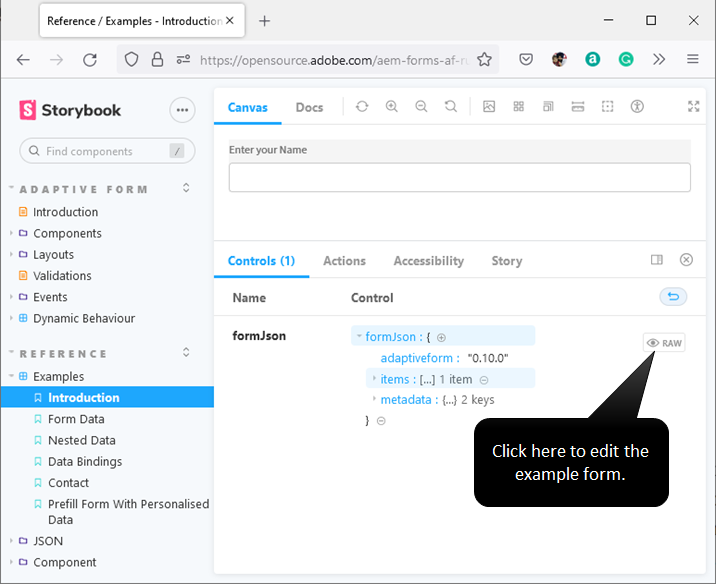
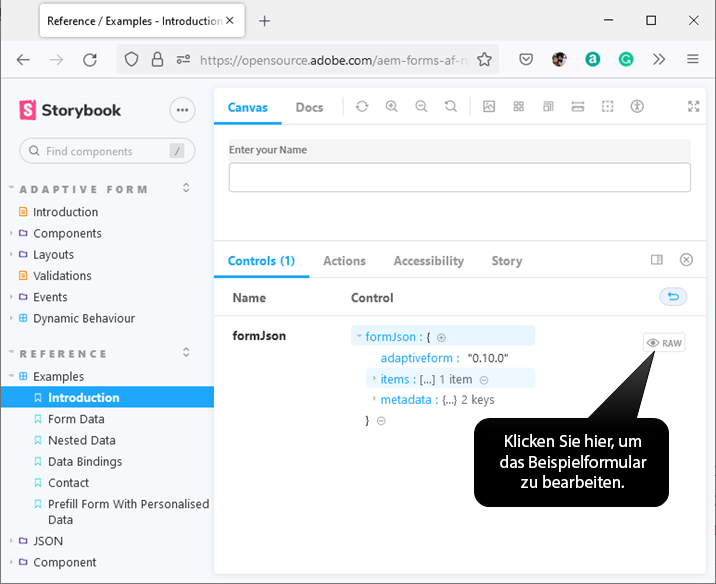
Updated by task 'AUTO_HANDOFF_PRIORITY_1693237965035'  Changes for core/source commit https://git.corp.adobe.com/AdobeDocs/experience-manager-headless-adaptive-forms.en/commit/47ac7d03c8c4fa18ac3bdcef04352fdd1cad1b16

Changed region(s): [[0.676, 0.7397, 0.9218, 0.8322]]

diff --git a/help/release-notes.md b/help/release-notes.md
@@ -1,25 +1,25 @@
 ---
-title: Übersicht über AEM Headless-adaptive Formulare
-description: Übersicht über AEM adaptiven Formulare ohne Kopfzeilenfunktion.
+title: Adaptive Headless-Formulare von AEM – Übersicht
+description: Übersicht über adaptive Headless-Formulare von AEM.
 hide: true
 exl-id: cd7c7972-376c-489f-a684-f479d92c37e7
 source-git-commit: 0127f8ddede38083f0932b0e8d7efdd0dd77c3a6
-workflow-type: tm+mt
+workflow-type: ht
 source-wordcount: '510'
-ht-degree: 3%
+ht-degree: 100%
 
 ---
 
 
 # Versionshinweise
 
-Willkommen bei der frühzeitigen Version von adaptiven Formularen ohne Experience Manager Headless. Lesen Sie weiter, um Ressourcen und Anweisungen zu erhalten, um zu beginnen und die Version optimal zu nutzen.
+Willkommen bei der Early-Adopter-Version von adaptiven Headless-Formularen von Experience Manager. Lesen Sie weiter, um Ressourcen und Anweisungen für den Einstieg zu erhalten und das Beste aus der Version zu machen.
 
-Sie können adaptive Adobe Experience Manager Headless-Formulare verwenden, um Formularanwendungen mithilfe von Frontend-UI-Frameworks wie React, Angular und mehr zu erstellen und das Adaptive Forms Web SDK für Funktionen wie Statusverwaltung, Validierung und Integrationen mit verschiedenen anderen Touchpoints zu verwenden.
+Sie können adaptive Headless-Formulare von Adobe Experience Manager verwenden, um Formularanwendungen mithilfe von Frontend-UI-Frameworks wie React, Angular und mehr zu erstellen, und das Adaptive Forms Web SDK für Funktionen wie Statusverwaltung, Validierung und Integrationen mit verschiedenen anderen Touchpoints verwenden.
 
-Die frühe Adopter-Version bietet Ihnen Zugriff auf die Verwendung von Headless-adaptiven Formularen in einer [lokale Entwicklungsumgebung](setup-development-environment.md). Sie können die lokale Entwicklungsumgebung verwenden, um Headless-adaptive Formulare zu erstellen und zu testen.
+Die Early-Adopter-Version bietet Ihnen Zugriff auf die Verwendung von adaptiven Headless-Formularen in einer [lokalen Entwicklungsumgebung](setup-development-environment.md). Sie können die lokale Entwicklungsumgebung verwenden, um adaptive Headless-Formulare zu erstellen und zu testen.
 
-Adaptive Headless-Formulare werden laufend verbessert. Besuchen Sie diese Seite regelmäßig, um über die neuesten Entwicklungen auf dem Laufenden zu bleiben. Auf dieser Seite finden Sie Informationen zu frühzeitigem Zugriff, aktuellen Versionen, neuen Funktionen, Verbesserungen, Fehlerbehebungen, veralteten Funktionen, speziellen Anweisungen und künftigen Plänen für Änderungen.
+Adaptive Headless-Formulare werden laufend verbessert. Besuchen Sie diese Seite regelmäßig, um über die neuesten Entwicklungen auf dem Laufenden zu bleiben. Auf dieser Seite finden Sie Informationen zu frühzeitiger Verfügbarkeit, neuesten Versionen, neuen Funktionen, Verbesserungen, Fehlerbehebungen, veralteten Funktionen, speziellen Anweisungen und zukünftigen Änderungsplänen.
 
 <!-- 
 
@@ -40,45 +40,45 @@ Adaptive Headless-Formulare werden laufend verbessert. Besuchen Sie diese Seite 
 
 <!-- ### React Renderer component -->
 
-## In der frühen Adoptionsversion verfügbare Artefakte
+## Artefakte sind in der Early-Adopter-Version verfügbar
 
-In der Journey, um Ihnen adaptive Adobe Experience Manager Headless-Formulare bereitzustellen, sind die folgenden Artefakte in der frühen Advertising-Version verfügbar:
+Im Rahmen unseres Bestrebens, Ihnen adaptive Headless-Formulare von Adobe Experience Manager zur Verfügung zu stellen, sind die folgenden Artefakte in der Early-Adopter-Version verfügbar:
 
-### AEM FORMS AS A CLOUD SERVICE SDK
+### AEM Forms as a Cloud Service SDK
 
-AEM Forms as a Cloud Service SDK zum Erstellen, Speichern und Abrufen von Headless-adaptiven Formularen. Es hilft auch bei der Bereitstellung von Diensten zum Vorausfüllen, serverseitigen Validieren von Regeln und Senden für adaptive Headless-Formulare.
+AEM Forms as a Cloud Service SDK hilft Ihnen beim Erstellen, Speichern und Abrufen von adaptiven Headless-Formularen. Es hilft auch bei der Bereitstellung von Vorbefüllung, Server-seitiger Regelvalidierung und Übermittlungsdiensten für adaptive Headless-Formulare.
 
 ### Forms Web SDK
 
-Das Forms Web SDK bietet die APIs zum Validieren von Einschränkungen, die auf verschiedene Formularfelder angewendet werden, und zum Verbinden der JSON-Formularstruktur mit dem UI-Framework. Es bietet außerdem React Renderer-&#x200B; für Headless-adaptive Formulare, um ein Headless-adaptives Formular in Ihre Anwendung zu integrieren. Die folgenden Komponenten des Web SDK sind verfügbar:
+Forms Web SDK stellt die APIs zur Validierung von Einschränkungen bereit, die auf verschiedene Felder eines Formulars angewendet werden, sowie Hooks, um die JSON-Struktur des Formulars mit dem UI-Framework zu verbinden. Es bietet außerdem React Renderer für adaptive Headless-Formulare, um die Integration eines adaptiven Headless-Formulars in Ihre Anwendung zu unterstützen. Die folgenden Komponenten des Web SDK sind verfügbar:
 
-* **[@aemforms/af-response-components](https://www.npmjs.com/package/@aemforms/af-react-components)**
-* **[@aemforms/af-response-renderer](https://www.npmjs.com/package/@aemforms/af-react-renderer)**
+* **[@aemforms/af-react-components](https://www.npmjs.com/package/@aemforms/af-react-components)**
+* **[@aemforms/af-react-renderer](https://www.npmjs.com/package/@aemforms/af-react-renderer)**
 * **[@aemforms/af-core](https://www.npmjs.com/package/@aemforms/af-core)**
 
 <!-- npm i --save @aemforms/af-react-components @aemforms/af-react-renderer @aemforms/af-core -->
 
 #### Storybook
 
-[Storybook](https://opensource.adobe.com/aem-forms-af-runtime/storybook/) bietet einen Überblick über die verschiedenen Komponenten von Headless adaptiven Formularen. Sie enthält außerdem eine Liste aller unterstützten Komponenten, deren zugehörige Eigenschaften und Einschränkungen.
+[Storybook](https://opensource.adobe.com/aem-forms-af-runtime/storybook/) bietet einen Überblick über verschiedene Komponenten von adaptiven Headless-Formularen. Außerdem wird eine Liste aller unterstützten Komponenten einschließlich ihrer Eigenschaften und Einschränkungen bereitgestellt.
 
-### Forms-Kernkomponente
+### Kernkomponenten von Formularen
 
 <!-- Forms components are the structural elements that constitute the content of the form being authored. These components provide various form fields and ability to customize those fields. -->
 
-Kernkomponenten sind eine Reihe standardisierter WCM-Komponenten (Web Content Management), mit denen Sie die Entwicklungszeit verkürzen und die Wartungskosten Ihrer Formulare reduzieren können. Die Forms-Container-Komponente ist eine Kernkomponente. Dies hilft Ihnen beim Einbetten und Rendern einer JSON-Struktur des Headless-adaptiven Formulars im adaptiven Forms-Editor des as a Cloud Service Forms SDK.
+Kernkomponenten sind eine Reihe standardisierter Web Content Management(WCM)-Komponenten, um die Entwicklungszeit zu verkürzen und die Wartungskosten Ihrer Formulare zu senken. Die Komponente „Formular-Container“ ist eine Kernkomponente. Sie hilft Ihnen, eine JSON-Struktur eines adaptiven Headless-Formulars in den Editor für adaptive Formulare des Forms as a Cloud Service SDK einzubetten und zu rendern.
 
-### Adaptive Forms V2-Spezifikationen
+### Spezifikationen für „Adaptive Formulare V2“
 
-Die Spezifikation für Headless-adaptive Formulare bietet detaillierte Informationen zu allen Komponenten, Begrenzungen und Methoden, die zum Definieren von Headless-adaptiven Formularen verfügbar sind. Die Spezifikation ist verfügbar unter [PDF](/help/assets/Headless-Adaptive-Form-Specification.pdf) Format.
+Die Spezifikation für adaptive Headless-Formulare bietet detaillierte Informationen zu allen Komponenten, Einschränkungen und Methoden, die zum Definieren adaptiver Headless-Formulare verfügbar sind. Die Spezifikation ist im [PDF](/help/assets/Headless-Adaptive-Form-Specification.pdf)-Format verfügbar.
 
 ### HTTP- und JS-API
 
-[HTTP-APIs](https://opensource.adobe.com/aem-forms-af-runtime/api/) ermöglichen es Ihnen, den Sendestatus von Headless-Formularen aufzulisten, abzurufen, zu validieren, zu senden und zu verfolgen. [JS-APIs](https://opensource.adobe.com/aem-forms-af-runtime/jsdocs/) hilft Ihnen bei der Verwendung von Headless-adaptiven Formularen mit einem beliebigen JavaScript-basierten UI-Framework.
+[HTTP-APIs](https://opensource.adobe.com/aem-forms-af-runtime/api/) ermöglichen Ihnen das Auflisten, Abrufen, Validieren, Senden und Verfolgen des Übermittlungsstatus von Headless-Formularen. [JS-APIs](https://opensource.adobe.com/aem-forms-af-runtime/jsdocs/) helfen Ihnen, adaptive Headless-Formulare mit jedem JavaScript-basierten UI-Framework zu verwenden.
 
 ### Visual Studio Code-Erweiterung
 
-[Visual Studio Code-Erweiterung](visual-studio-code-extension-for-headless-adaptive-forms.md) um eine gültige JSON-Struktur zu erstellen. Es bietet IntelliSense-Unterstützung und -Validierung für die JSON-Struktur von Formularen sowie allgemeine Funktionen wie das Hinzufügen, Löschen oder Umbenennen von Komponenten einer JSON-Struktur.
+Die [Visual Studio Code-Erweiterung](visual-studio-code-extension-for-headless-adaptive-forms.md) hilft beim Erstellen einer gültigen JSON-Struktur. Sie bietet IntelliSense-Unterstützung und -Validierung für die JSON-Struktur von Formularen sowie allgemeine Funktionen wie das Hinzufügen, Löschen oder Umbenennen von Komponenten einer JSON-Struktur.
 
 <!-- ## What's next
 

diff --git a/help/faq.md b/help/faq.md
@@ -6,21 +6,21 @@ feature: Adaptive Forms
 topic: Headless
 role: Admin, Developer
 level: Beginner, Intermediate
-keywords: Headless, adaptives Formular, FAQ
+keywords: headless, adaptives Formular, FAQ
 hide: false
 exl-id: 5bfc307d-96a3-4007-b65f-32176ecdb710
 source-git-commit: 47ac7d03c8c4fa18ac3bdcef04352fdd1cad1b16
-workflow-type: tm+mt
+workflow-type: ht
 source-wordcount: '429'
-ht-degree: 2%
+ht-degree: 100%
 
 ---
 
 # Häufig gestellte Fragen (FAQ) {#headless-adaptive-forms-faq}
 
-## Sollte ich React.js kennen, um Headless-adaptive Formulare zu verwenden?
+## Sollte ich wissen, dass React.js Headless-adaptive Formulare verwendet?
 
-Sie können jedes Framework, jede Bibliothek oder jede Sprache verwenden, um Headless-adaptive Formulare wiederzugeben und unsere REST-APIs zum Überprüfen und Senden der Formulare zu verwenden. Die AF-Core-Bibliothek, die OOTB bereitgestellt wird, ist Framework-unabhängig. React-Render- und React-component-Bibliotheken, die OOTB zur Verfügung gestellt werden, sind für Sie bequem. Sie können eigene Komponenten entwickeln und sind nicht auf deren Verwendung beschränkt.
+Sie können jedes Framework, jede Bibliothek oder jede Sprache verwenden, um adaptive Headless-Formulare zu rendern, und unsere REST-APIs zum Validieren und Senden der Formulare verwenden. Die AF-Core-Bibliothek ist, sofern OOTB bereitgestellt wird, Framework-unabhängig. Die bereitgestellten OOTB-Bibliotheken React-Render und React-Komponenten verbessern die Benutzerfreundlichkeit. Sie können Ihre eigenen Komponenten entwickeln und sind nicht auf obige beschränkt.
 
 <!-- 
 ## Did Adobe release a new AEM Archetype for Headless adaptive forms?
@@ -29,41 +29,41 @@ You can use Archetype 37 with flag `includeFormsheadless` or later flag to creat
 
 -->
 
-## Benötige ich eine as a Cloud Service Forms-Sandbox zur Verwendung von Headless-adaptiven Formularen?
+## Benötige ich eine Forms as a Cloud Service-Sandbox, um adaptive Headless-Formulare zu verwenden?
 
-Sie können die Starter-App verwenden, um Ihre Headless-adaptiven Formulare zu entwickeln und zu gestalten. Sie benötigen Forms, das as a Cloud Service ist, Headless-adaptive Formulare zusammen mit Backend-Formularfunktionen zu hosten und bereitzustellen.
+Mit der Starter-App können Sie mit der Entwicklung und Gestaltung Ihrer adaptiven Headless-Formulare beginnen. Sie benötigen Forms as a Cloud Service, um adaptive Headless-Formulare zusammen mit Backend-Formularfunktionen zu hosten und bereitzustellen.
 
 <!-- ## Do I need an archetype project to develop Headless adaptive forms?
 
 You can use the starter app to start developing and styling your Headless adaptive forms. Later on, you can use the 
 archetype project to deploy the finished Headless adaptive forms and corresponding custom code, created using starter app, to Forms as a Cloud Service environment. The Forms as a Cloud Service environment helps you test and productionize the forms. -->
 
-## Wo erhalte ich eine Vorschau für ein adaptives Headless-Formular? {#storybook-example}
+## Wo kann ich eine Vorschau eines adaptiven Headless-Formulars erhalten? {#storybook-example}
 
-Sie können die Starter-App verwenden, um ein benutzerdefiniertes Headless-adaptives Formular zu rendern und in der Vorschau anzuzeigen. Sie können auch eine [Storybook](https://opensource.adobe.com/aem-forms-af-runtime/storybook/?path=/story/reference-examples--introduction) Beispiel für die Vorschau eines adaptiven Formulars ohne Kopfzeilenmodus.
+Mit der Starter-App können Sie ein benutzerdefiniertes adaptives Headless-Formular rendern und in der Vorschau anzeigen. Sie können auch ein Beispiel für ein [Storybook](https://opensource.adobe.com/aem-forms-af-runtime/storybook/?path=/story/reference-examples--introduction) zur Vorschau eines adaptiven Headless-Formulars bearbeiten.
 
 ![](/help/assets/storybook-example.png)
 
-## Ist es möglich, Headless-adaptive Formulare mit benutzerdefinierten Frameworks zu verwenden?
+## Ist es möglich, adaptive Headless-Formulate mit benutzerdefinierten Frameworks zu verwenden?
 
-Headless-adaptive Formulare basieren auf [Standardspezifikation](/help/assets/Headless-Adaptive-Form-Specification.pdf). Sie können die Spezifikation erweitern, um sie zum Erstellen benutzerdefinierter Komponenten zu verwenden. Beispielsweise Komponenten für die Chakra-Benutzeroberfläche, Vue.js und mehr.
+Adaptive Headless-Formulare basieren auf einer [Standardspezifikation](/help/assets/Headless-Adaptive-Form-Specification.pdf). Sie können die Spezifikation erweitern, um sie zum Erstellen benutzerdefinierter Komponenten zu verwenden. Zum Beispiel Komponenten für Chakra UI, Vue.js und mehr.
 
-## Unterstützen Headless adaptive Formulare kaskadierende Felder?
+## Unterstützen adaptive Headless-Formulare kaskadierende Felder?
 
-In kaskadierenden Feldern hängt der Inhalt des zweiten Felds vom im ersten Feld ausgewählten Inhalt ab. Die [Storybook](https://opensource.adobe.com/aem-forms-af-runtime/storybook/?path=/story/adaptive-form-dynamic-behavior—options&amp;args=formJson.items[0].fieldType:drop-down;formJson.items[0].minimum:!undefined;formJson.items[0].maximum:!undefined;formJson.items[0].label.value:Choose+number+of+options;formJson.items[0].enum[0]:1;formJSp son.items[0].enum[1]:2;formJson.items[0].enum[2]:3;formJson.items[1].fieldType:drop-down) bietet ein Beispiel für kaskadierende Felder.
+In kaskadierenden Feldern hängt der Inhalt des zweiten Felds vom im ersten Feld ausgewählten Inhalt ab. Das [Storybook](https://opensource.adobe.com/aem-forms-af-runtime/storybook/?path=/story/adaptive-form-dynamic-behaviour--options&amp;args=formJson.items[0].fieldType:drop-down;formJson.items[0].minimum:!undefined;formJson.items[0].maximum:!undefined;formJson.items[0].label.value:Choose+number+of+options;formJson.items[0].enum[0]:1;formJson.items[0].enum[1]:2;formJson.items[0].enum[2]:3;formJson.items[1].fieldType:drop-down) bietet ein Beispiel für kaskadierende Felder.
 
-## Lassen adaptive Formulare mit Headless das Vorausfüllen von Formularen mit personalisierten Daten zu?
+## Ermöglichen adaptive Headless-Formulare das Vorausfüllen von Formularen mit personalisierten Daten?
 
-Headless adaptive Formulare ermöglichen das Vorausfüllen von Formularen mit personalisierten Daten. Die [Storybook](https://opensource.adobe.com/aem-forms-af-runtime/storybook/?path=/story/reference-examples--prefill-form-with-personalised-data) bietet ein Beispiel dafür, wie Sie ein adaptives Headless-Formular vorab ausfüllen können.
+Adaptive Headless-Formulare ermöglichen das Vorausfüllen von Formularen mit personalisierten Daten. Das [Storybook](https://opensource.adobe.com/aem-forms-af-runtime/storybook/?path=/story/reference-examples--prefill-form-with-personalised-data) bietet ein Beispiel dafür, wie ein adaptives Headless-Formular vorab ausgefüllt werden kann.
 
 <!-- >
 ## Can I use existing Adaptive Forms editor to create a Headless adaptive form?
 
 At this moment, you use the Adaptive Form Editor to specify the JSON structure and set submit action for the forms. Support for drag-and-drop components, applying rules using editor, and more editor-related options would be available later in the beta phase. Keep a watch on release notes.  -->
 
-## Kann ich adaptive Formulare mit Headless-Angular-SPA verwenden?
+## Kann ich adaptive Headless-Formulare mit Angular SPA verwenden?
 
-Sie können das Web SDK verwenden, um Headless-adaptive Formulare in Angular-SPA zu integrieren. Sie ist unabhängig von jedem Rahmen. Sie können React SDK als Referenz verwenden.
+Sie können das Web SDK verwenden, um adaptive Headless-Formulare in Angular SPA zu integrieren. Es ist unabhängig von jeglichem Framework. Sie können React SDK als Referenz verwenden.
 
 <!-- ## Should the `-r prerelease` switch be used every time to start the AEM SDK instance or only for the first time?
 
@@ -80,10 +80,10 @@ You do not require a license.properties file to run AEM Cloud Service SDK.
 
 -->
 
-## Gibt es irgendein Plugin, um die Entwicklung für Headless AF zu erleichtern?
+## Gibt es ein Plugin, das die Entwicklung von Headless AF erleichtert?
 
-Ja, für Microsoft Visual Studio Code ist eine Erweiterung verfügbar. Es bietet eine praktische Möglichkeit, die JSON-Datei für Headless-adaptive Formulare manuell zu erstellen.
+Ja, für Microsoft Visual Studio Code ist eine Erweiterung verfügbar. Sie bietet eine bequeme Möglichkeit, das JSON für das adaptive Headless-Formular manuell zu erstellen.
 
-## Kann ein Headless-adaptives Formular eine Verbindung zu einem beliebigen CRM herstellen, um Daten zu lesen oder zu schreiben?
+## Kann ein adaptives Headless-Formular eine Verbindung zu jedem CRM herstellen, um Daten zu lesen oder zu schreiben?
 
-Sie können Microsoft Dynamics und Salesforce verwenden, um ein adaptives Headless-Formular zu senden oder vorzufüllen. Zusätzlich zu CRMs unterstützen adaptive Formulare ohne Kopfzeilen das Senden oder Vorbefüllen mit REST-Endpunkten, E-Mail und benutzerdefinierten Übermittlungsaktionen.
+Sie können Microsoft Dynamics und Salesforce verwenden, um ein adaptives Headless-Formular zu übermitteln oder vorab auszufüllen. Abgesehen von CRMs unterstützen adaptive Headless-Formulare das Senden oder Vorabausfüllen mithilfe von REST-Endpunkten, E-Mails und benutzerdefinierte Übermittlungsaktionen.

diff --git a/help/TOC.md b/help/TOC.md
@@ -1,38 +1,38 @@
 ---
-user-guide-title: Adaptive Adobe Experience Manager Headless-Formulare
-breadcrumb-title: AEM Headless-adaptive Formulare
-user-guide-description: Dokumentation für adaptive Adobe Experience Manager Headless-Formulare
+user-guide-title: Adaptive Headless-Formulare von Adobe Experience Manager
+breadcrumb-title: Adaptive Headless-Formulare von AEM
+user-guide-description: Dokumentation zu adaptiven Headless-Formularen von Adobe Experience Manager
 feature: Adaptive Forms
 role: Developer
 hide: false
 source-git-commit: b1e62aa73d5f442c8d025202f3bad31c0f82a113
-workflow-type: tm+mt
+workflow-type: ht
 source-wordcount: '137'
-ht-degree: 8%
+ht-degree: 100%
 
 ---
 
 
-# Adaptive Adobe Experience Manager Headless-Formulare {#using}
+# Adaptive Headless-Formulare von Adobe Experience Manager {#using}
 
 + [Übersicht](overview.md)
 + [Architektur](architecture.md)
 + Schnelleinrichtung {#quick-setup}
-   + [Aktivieren von Headless Adaptive Forms auf AEM 6.5 Forms](enable-headless-adaptive-forms-and-core-components.md)
-   + [Aktivieren von Headless Adaptive Forms auf AEM Forms as a Cloud Service](enable-headless-adaptive-forms-and-core-components-on-forms-cloud-service.md)
+   + [Aktivieren von adaptiven Headless-Formularen in AEM 6.5 Forms](enable-headless-adaptive-forms-and-core-components.md)
+   + [Aktivieren von adaptiven Headless-Formularen in AEM Forms as a Cloud Service](enable-headless-adaptive-forms-and-core-components-on-forms-cloud-service.md)
 + Tutorial {#tutorial}
-   + [Forms mit Kernkomponenten und Headless Adaptives Forms auf AEM Forms as a Cloud Service integrieren](build-engaging-forms-using-core-components-and-headless-adaptive-forms-aem-forms-cloud-service.md)
-   + [Forms mit Kernkomponenten und Headless-Adaptives Forms auf AEM 6.5 Forms integrieren](build-engaging-forms-using-core-components-and-headless-adaptive-forms-on-aem-65-forms.md)
-+ Erste Schritte mit dem Starter Kit{#get-started}
-   + [Erstellen und Veröffentlichen eines Headless-Formulars mit dem Starter Kit](create-and-publish-a-headless-form.md)
+   + [Erstellen von ansprechenden Formularen mit Kernkomponenten und adaptiven Headless-Formularen in AEM Forms as a Cloud Service](build-engaging-forms-using-core-components-and-headless-adaptive-forms-aem-forms-cloud-service.md)
+   + [Erstellen von ansprechenden Formularen mit Kernkomponenten und adaptiven Headless-Formularen in AEM 6.5 Forms](build-engaging-forms-using-core-components-and-headless-adaptive-forms-on-aem-65-forms.md)
++ Erste Schritte mit dem Starter-Kit{#get-started}
+   + [Erstellen und Veröffentlichen eines Headless-Formulars mit dem Starter-Kit](create-and-publish-a-headless-form.md)
    + [Verwenden einer benutzerdefinierten React-Bibliothek zum Rendern eines Headless-Formulars](use-google-material-ui-react-components-to-render-a-headless-form.md)
-+ Erstellen von Headless-adaptiven Formularen {#authoring-headless-adaptive-forms}
-   + [Erstellen eines Headless-adaptiven Formulars mit dem adaptiven Forms-Editor](create-a-headless-adaptive-form.md)
++ Erstellen eines adaptiven Headless-Formulars {#authoring-headless-adaptive-forms}
+   + [Erstellen eines adaptiven Headless-Formulars mit dem Editor für adaptive Formulare](create-a-headless-adaptive-form.md)
 + Entwicklerreferenz {#developer-reference}
-   + [Headless-APIs für adaptive Formulare](https://opensource.adobe.com/aem-forms-af-runtime/api/)
+   + [API für adaptive Headless-Formulare](https://opensource.adobe.com/aem-forms-af-runtime/api/)
 + [Häufig gestellte Fragen ](faq.md)
 + [Fehlerbehebung](troubleshooting.md)
-+ [Microsoft Visual Studio Code-Erweiterung für Headless-adaptive Formulare](visual-studio-code-extension-for-headless-adaptive-forms.md)
++ [Microsoft Visual Studio Code-Erweiterung für adaptive Headless-Formulare](visual-studio-code-extension-for-headless-adaptive-forms.md)
 
 
 

diff --git a/help/known-issues.md b/help/known-issues.md
@@ -1,12 +1,12 @@
 ---
-title: Bekannte Probleme bei Headless-adaptiven Formularen
-description: Bekannte Probleme bei Headless-adaptiven Formularen
-keywords: Headless, adaptives Formular, bekannte Probleme
+title: Bekannte Probleme mit adaptiven Headless-Formularen
+description: Bekannte Probleme mit adaptiven Headless-Formularen
+keywords: headless, adaptive Formulare, bekannte Probleme
 hide: true
 source-git-commit: 0127f8ddede38083f0932b0e8d7efdd0dd77c3a6
-workflow-type: tm+mt
+workflow-type: ht
 source-wordcount: '102'
-ht-degree: 10%
+ht-degree: 100%
 
 ---
 
@@ -14,11 +14,11 @@ ht-degree: 10%
 # Bekannte Probleme {#known-issues}
 
 * Bearbeitungs-, Anzeige- und Datenmuster werden nicht unterstützt. (CQ-4327047)
-* Die Beschränkung minItems kann nicht dynamisch geändert werden. (CQ-4342499)
-* Bei Überprüfungen auf Bereichsebene wird kein Fehler ausgegeben. (CQ-4342373)
-* Bei Dateivalidierungen, die verletzt werden, wird kein Fehler ausgegeben. (CQ-4342372)
+* Die minItems-Beschränkung kann nicht dynamisch geändert werden. (CQ-4342499)
+* Validierungen auf Panel-Ebene lösen bei Verstößen keinen Fehler aus. (CQ-4342373)
+* Dateivalidierungen lösen bei Verstößen keinen Fehler aus. (CQ-4342372)
 * Benutzerdefinierte Eigenschaften sind nicht dynamisch. (CQ-4342376)
 * Das dynamische Ändern von Dateidaten bei Änderungsereignissen mithilfe von Ausdrücken führt zu einer Endlosschleife. (CQ-4342377)
 * Der Dateianhang unterstützt keinen Hilfetext. (CQ-4342370)
-* Das Kontrollkästchen &quot;Erforderlich&quot;zeigt beim Senden keinen Fehler an, falls nicht ausgewählt. (CQ-4342371)
-* aria-label wird in der Dateianlage nicht hinzugefügt. (CQ-4341494)
+* Das erforderliche Kontrollkästchen zeigt beim Absenden keinen Fehler an, wenn es nicht aktiviert ist. (CQ-4342371)
+* aria-label wird nicht zum Dateianhang hinzugefügt. (CQ-4341494)
